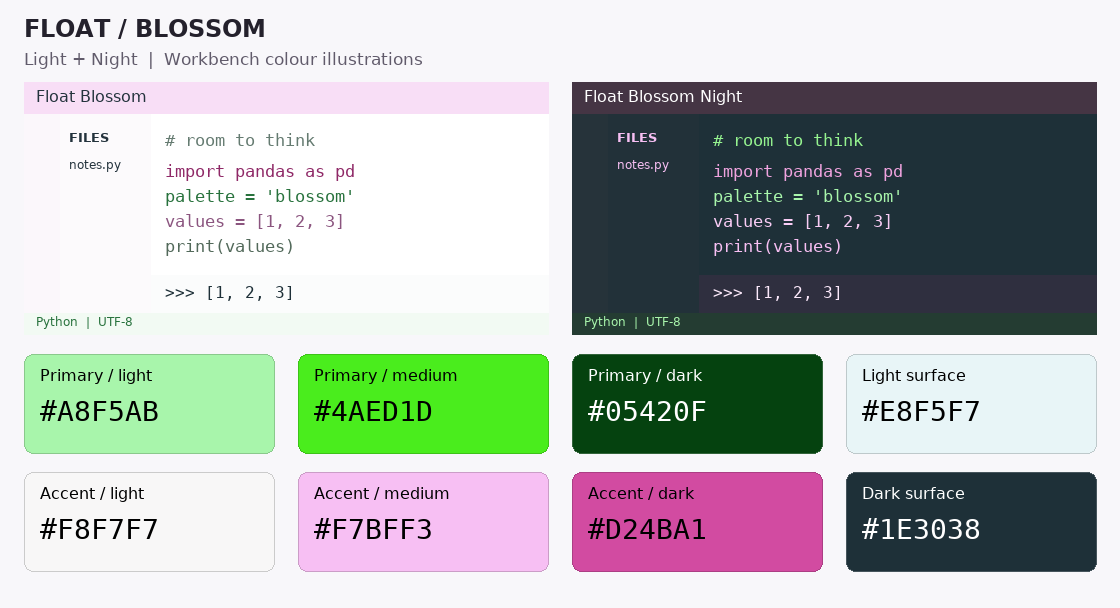
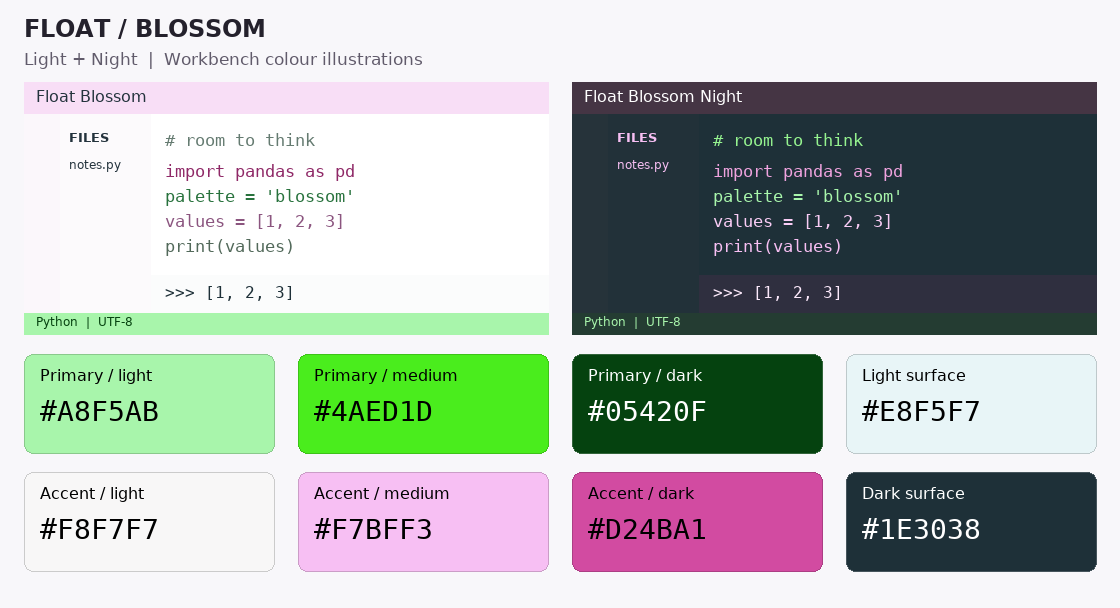
Give Blossom light a mint status bar

Changed region(s): [[0.0, 0.5, 0.5, 0.5625]]

diff --git a/scripts/CX_build_themes.py b/scripts/CX_build_themes.py
@@ -178,8 +178,9 @@ def build_theme(palette, night):
                 "sideBar.foreground": "#24333d", "sideBarTitle.foreground": "#52695a",
                 "sideBarSectionHeader.background": "#f9eef8", "sideBarSectionHeader.foreground": "#52695a",
                 "panel.background": "#fbfcfc", "terminal.background": "#fbfcfc",
-                "positronConsole.background": "#fbfcfc", "statusBar.background": "#f2faf3",
-                "statusBar.foreground": "#28723d", "statusBar.border": "#d9eadc",
+                "positronConsole.background": "#fbfcfc", "statusBar.background": "#a8f5ab",
+                "statusBar.noFolderBackground": "#a8f5ab",
+                "statusBar.foreground": "#05420f", "statusBar.border": "#d9eadc",
                 "button.background": "#f7bff3", "button.foreground": "#05420f",
                 "button.hoverBackground": "#f3aeed", "button.secondaryBackground": "#f1f8f2",
                 "button.secondaryForeground": "#28723d", "button.secondaryHoverBackground": "#e2f3e5",

diff --git a/README.md b/README.md
@@ -6,14 +6,14 @@ Colours carry through the editor, terminal, Console, Variables, Data Explorer, P
 
 ## Install
 
-1. Download **[float-positron-themes-0.2.1.vsix](https://github.com/firecat1234/positron-float-themes/releases/download/v0.2.1/float-positron-themes-0.2.1.vsix)** from the [latest release](https://github.com/firecat1234/positron-float-themes/releases/latest).
+1. Download **[float-positron-themes-0.2.2.vsix](https://github.com/firecat1234/positron-float-themes/releases/download/v0.2.2/float-positron-themes-0.2.2.vsix)** from the [latest release](https://github.com/firecat1234/positron-float-themes/releases/latest).
 2. In Positron's Command Palette, run **Extensions: Install from VSIX...** and choose the file.
 3. Run **Preferences: Color Theme** and choose a **Float** theme.
 
 Or install from a terminal:
 
 ```powershell
-positron --install-extension .\float-positron-themes-0.2.1.vsix
+positron --install-extension .\float-positron-themes-0.2.2.vsix
 ```
 
 Already using Float Spring? Install this VSIX to upgrade. The extension keeps its original internal ID, `kaist-local.float-spring-positron-theme`, so you do not get a second copy. **Float Spring** and **Float Spring Night** retain their existing names and colours.
@@ -30,7 +30,7 @@ Lavender and purple with mint and pear-green accents. Choose **Float Spring** or
 
 ### Blossom
 
-White work surfaces, a pale pink title bar, and green details, matching Blossom as rendered in Float. Its Night version uses slate surfaces with a muted pink header. Choose **Float Blossom** or **Float Blossom Night**.
+White work surfaces, a pale pink title bar, a mint status bar, and green details, matching Blossom as rendered in Float. Its Night version uses slate surfaces with a muted pink header. Choose **Float Blossom** or **Float Blossom Night**.
 
 ![Blossom palette: primary A8F5AB, 4AED1D, 05420F; accent F8F7F7, F7BFF3, D24BA1; light E8F5F7; dark 1E3038.](assets/CX_blossom.png)
 
@@ -69,7 +69,7 @@ With Python 3.10+ and Node.js installed:
 ```powershell
 python scripts/CX_build_themes.py
 python scripts/CX_check_themes.py
-npx --yes @vscode/vsce package --out float-positron-themes-0.2.1.vsix
+npx --yes @vscode/vsce package --out float-positron-themes-0.2.2.vsix
 ```
 
 To regenerate the colour cards, install Pillow and run:

diff --git a/CHANGELOG.md b/CHANGELOG.md
@@ -1,5 +1,10 @@
 # Changelog
 
+## 0.2.2 — 2026-09-23
+
+- Give Blossom's light status bar the original mint (`#A8F5AB`) background with deep green (`#05420F`) text, including windows without a folder open.
+- Refresh the Blossom preview. Keep tabs, buttons, syntax colours, and all Night themes unchanged.
+
 ## 0.2.1 — 2026-09-23
 
 - Match Blossom to Float's rendered appearance: white work surfaces, a pale pink title bar, and green details instead of large green panels.
